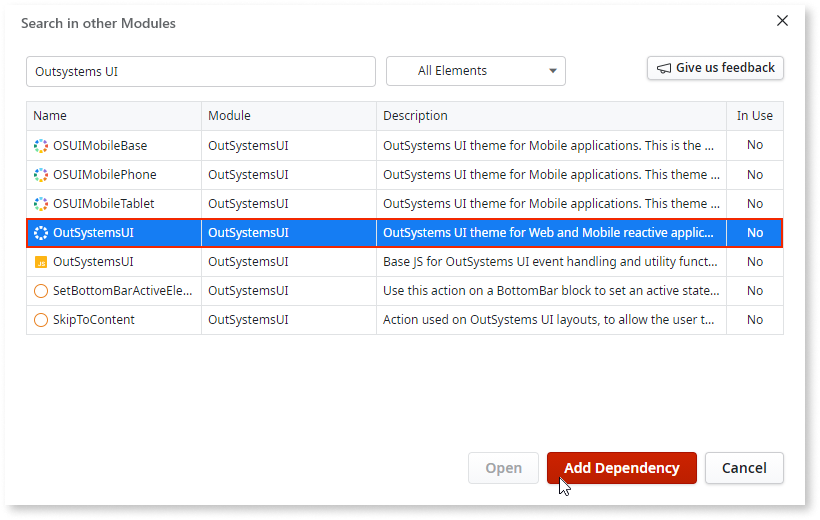
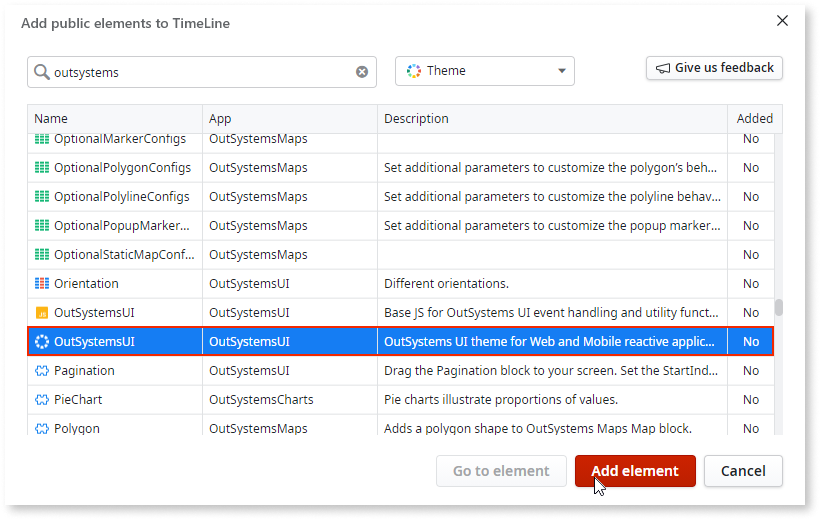
small updates to text and graphics

diff --git a/src/eap/tutorial-2-create-library.md b/src/eap/tutorial-2-create-library.md
@@ -20,19 +20,21 @@ Follow these steps
 
     ![Create Library](images/create-library-ss.png "Create library") 
 
-1. Add OutSystems UI as a dependency to the **Timeline** Library. First search for `OutSystems` in other apps.
+1. Add OutSystems UI as a dependency to the **Timeline** Library. First search for `OutSystems` in publich elements.
 
     ![Search for dependencies in other apps](images/search-for-dependencies-in-other-apps-ss.png "Search for dependencies in other apps") 
+
+        
+1. Select **OutSystemsUI Theme** and click **Add Element**.
+
+    ![Add dependency](images/add-dependency-ss.png "Add dependency") 
 
     <div class="info" markdown="1">
 
     All procedures and screens from this point forward are taken from O11 and must be changed. 
 
     </div>
-    
-1. Select **OutSystemsUI Theme** and click **Add Dependency**.
 
-    ![Add dependency](images/add-dependency-ss.png "Add dependency") 
 
 1. In a like manner at the other three OutSystems UI themes:
     * **OSUIMobileBase**
